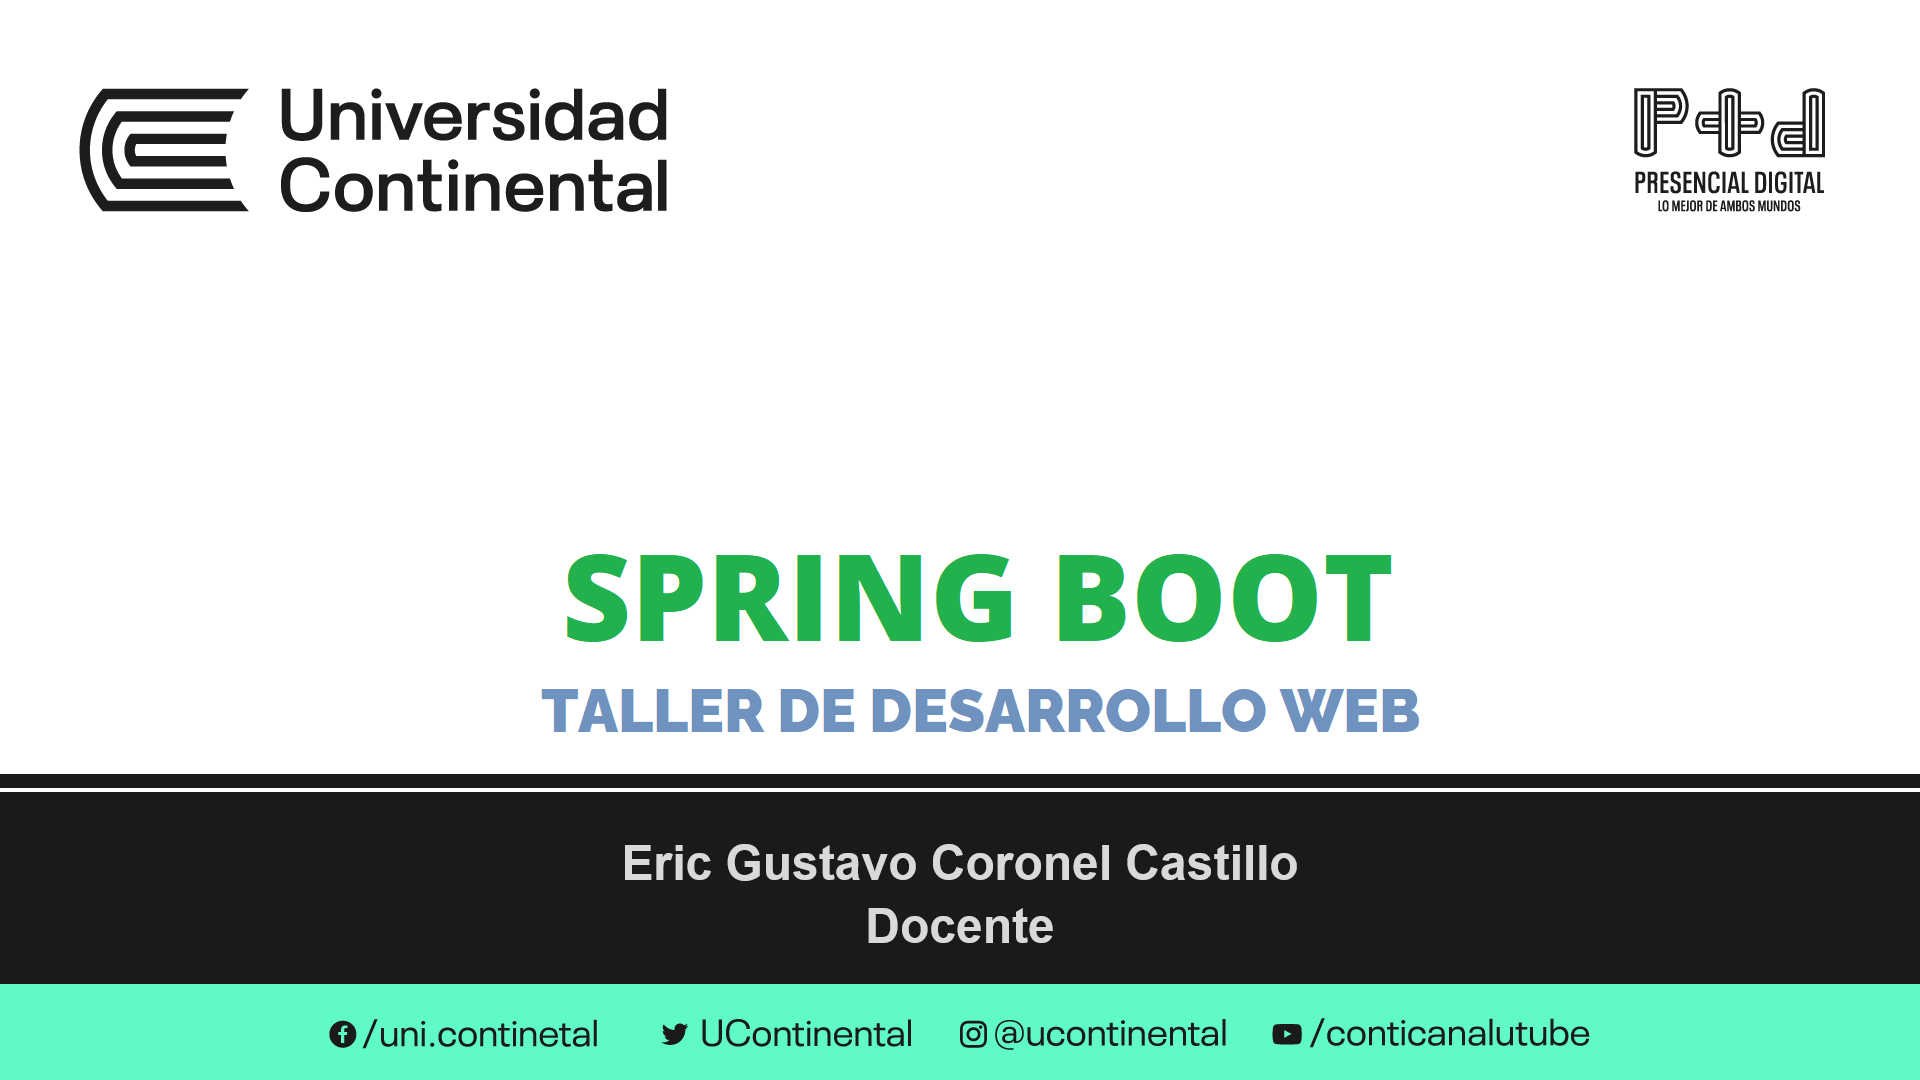
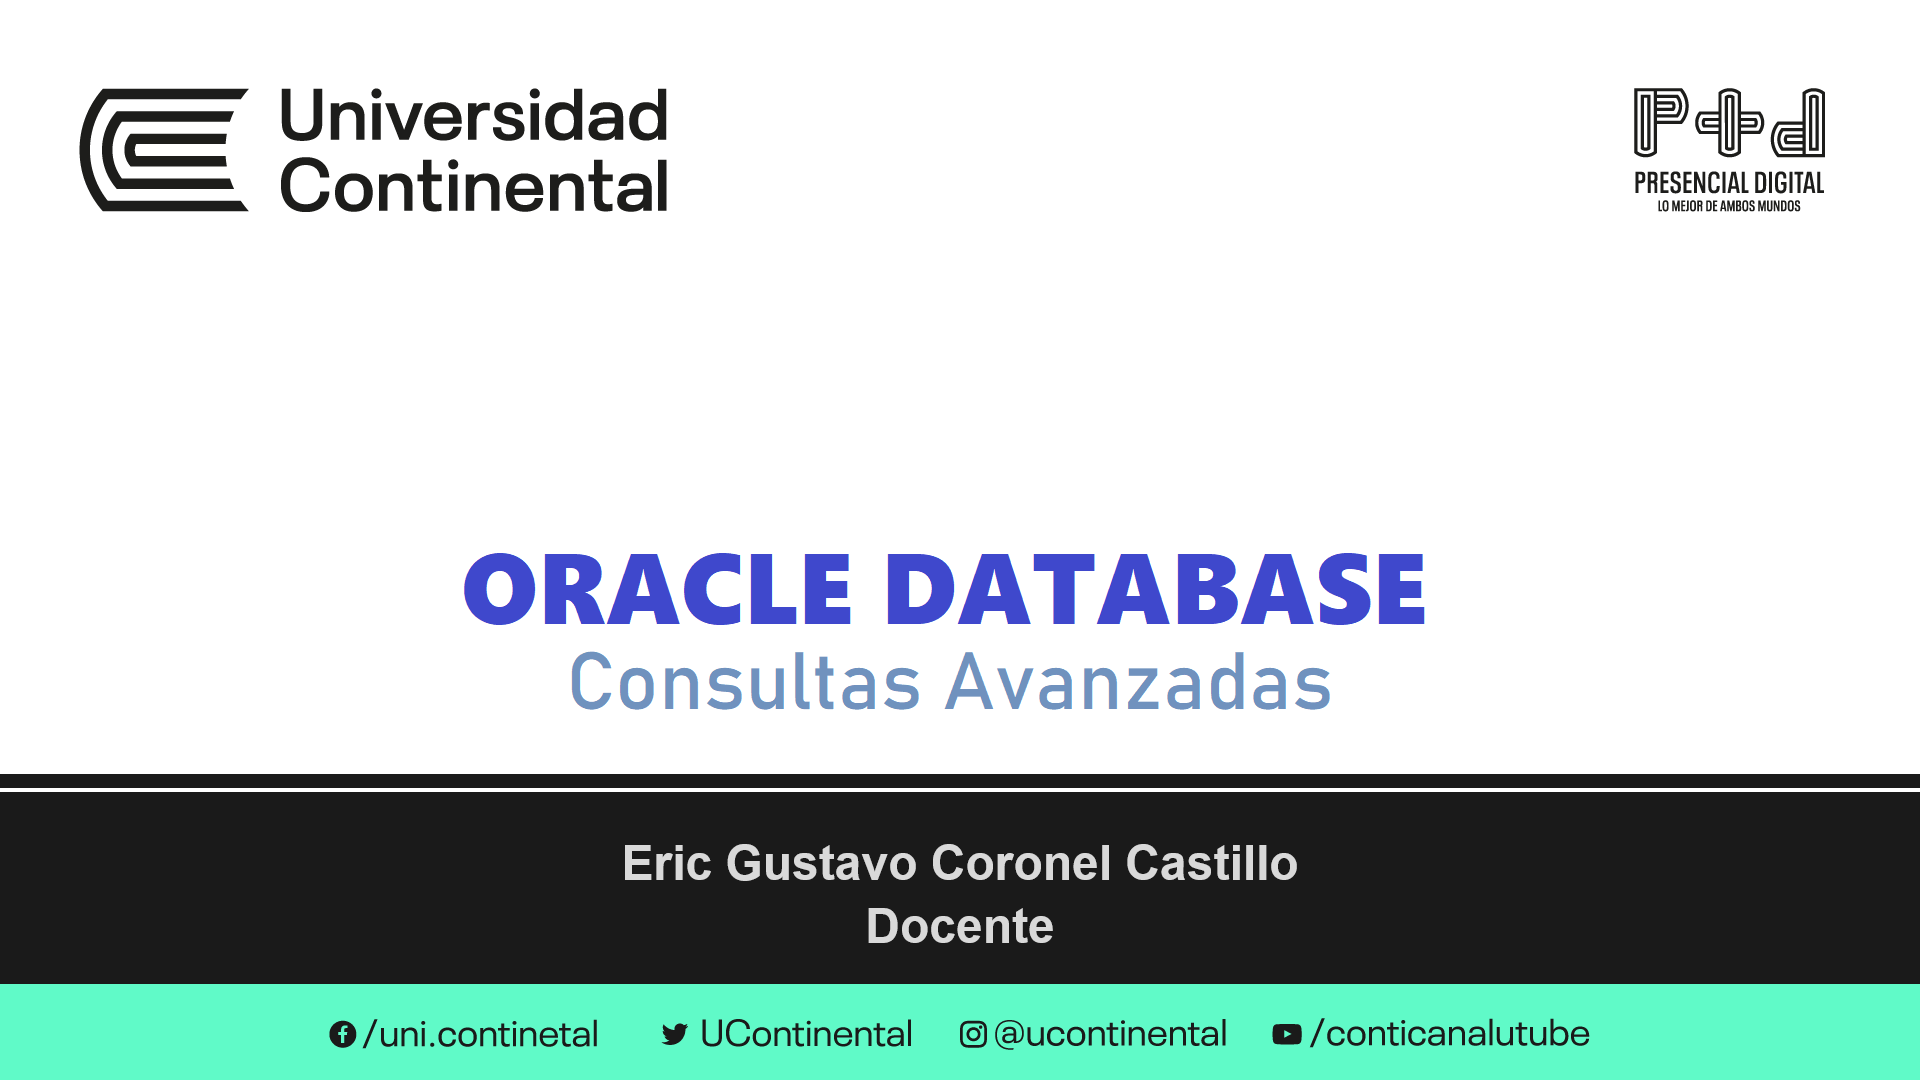
Repositorio

Changed region(s): [[0.2188, 0.4889, 0.75, 0.7028]]

diff --git a/README.md b/README.md
@@ -1,10 +1,10 @@
-![DESARROLLO WEB CON SPRING BOOT](https://raw.githubusercontent.com/gcoronelc/UCONT-SPRING-BOOT-2022/main/Imagenes/curso.png)
+![CONSULTAS AVANZADAS CON ORACLE DATABASE](https://raw.githubusercontent.com/gcoronelc/UCONT-ORACLE-DATABASE-2022/main/Imagenes/curso.png)
 
 # DATOS GENERALES
 
 - Lugar: UNIVERSIDAD CONTINENTAL
-- Horario: Sabados de 15 a 18 Horas
-- Inicio: 22-OCT-2022
+- Horario: Domingos de 8 a 11 Horas
+- Inicio: 23-OCT-2022
 - Duración: 15 Horas
 
 # DOCENTE
